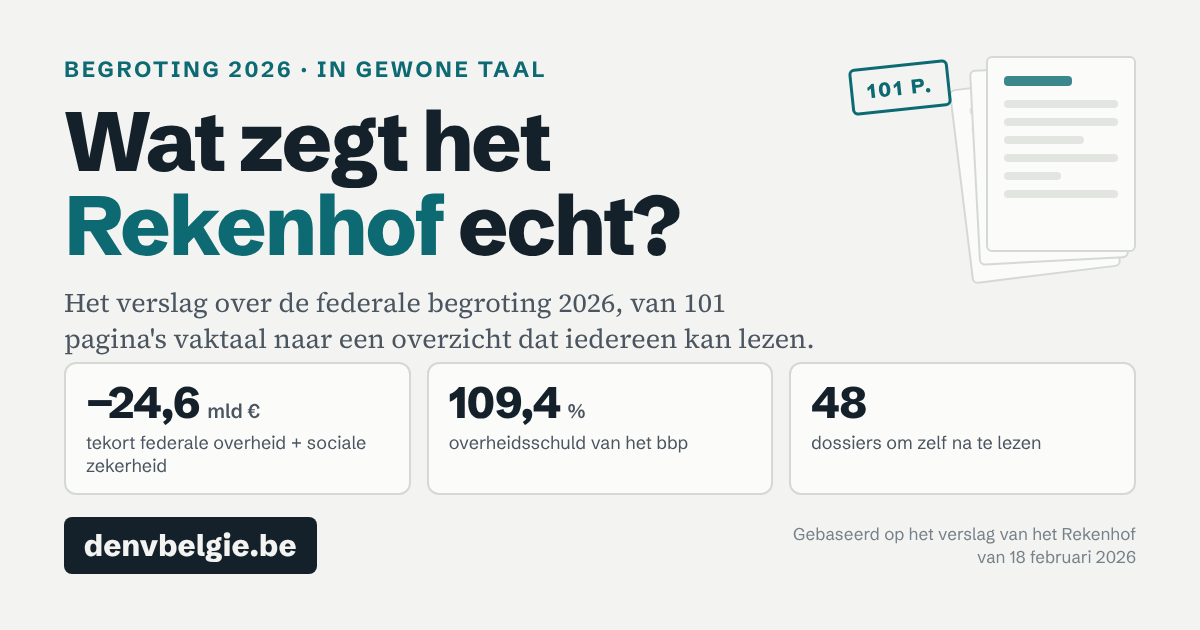
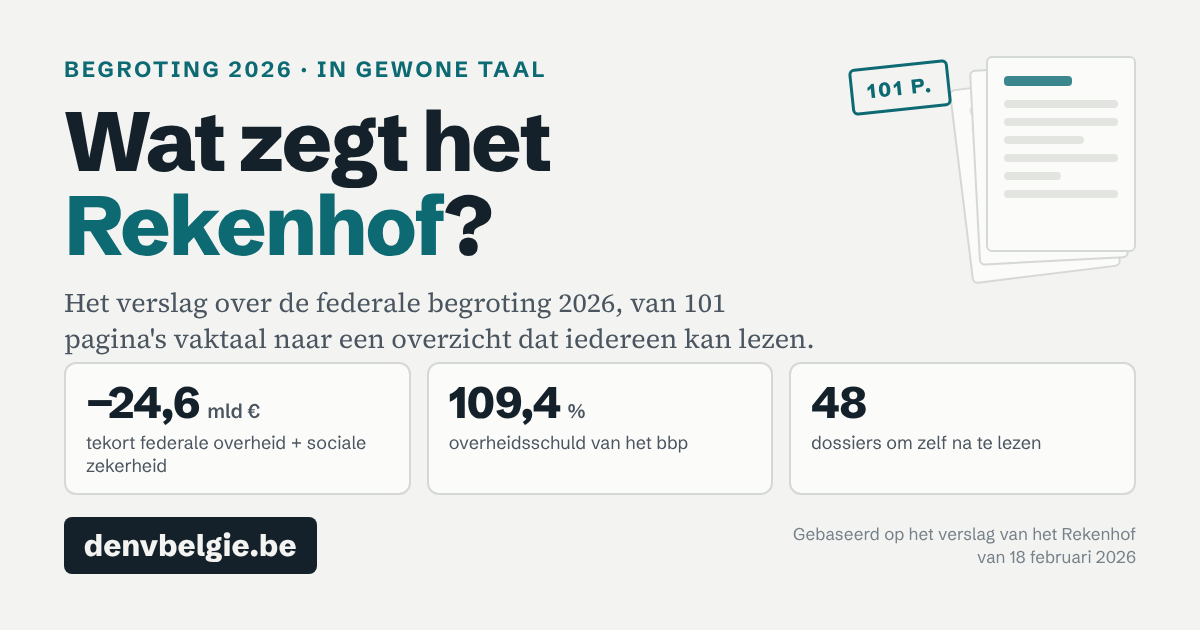
Titel voorbeeldafbeelding aangepast

Changed region(s): [[0.37, 0.3016, 0.5858, 0.4222]]

diff --git a/index.html b/index.html
@@ -1,11 +1,11 @@
 <!doctype html><html lang="nl"><head><meta charset="utf-8"><meta name="viewport" content="width=device-width,initial-scale=1,viewport-fit=cover"><meta name="description" content="Een leesbare samenvatting van het commentaar van het Rekenhof op de federale begroting 2026 en de Europese aanbevelingen voor België."><meta property="og:type" content="website">
 <meta property="og:url" content="https://denvbelgie.be/">
-<meta property="og:title" content="Wat zegt het Rekenhof echt over de begroting 2026?">
+<meta property="og:title" content="Wat zegt het Rekenhof over de begroting 2026?">
 <meta property="og:description" content="Het verslag van het Rekenhof over de federale begroting 2026, van 101 pagina's vaktaal naar een overzicht dat iedereen kan lezen.">
 <meta property="og:image" content="https://denvbelgie.be/og-image.png">
 <meta property="og:image:width" content="1200">
 <meta property="og:image:height" content="630">
-<meta property="og:image:alt" content="Wat zegt het Rekenhof echt? Begroting 2026 in gewone taal op denvbelgie.be">
+<meta property="og:image:alt" content="Wat zegt het Rekenhof? Begroting 2026 in gewone taal op denvbelgie.be">
 <meta property="og:locale" content="nl_BE">
 <meta name="twitter:card" content="summary_large_image">
 <title>Begroting 2026 nagerekend</title>
